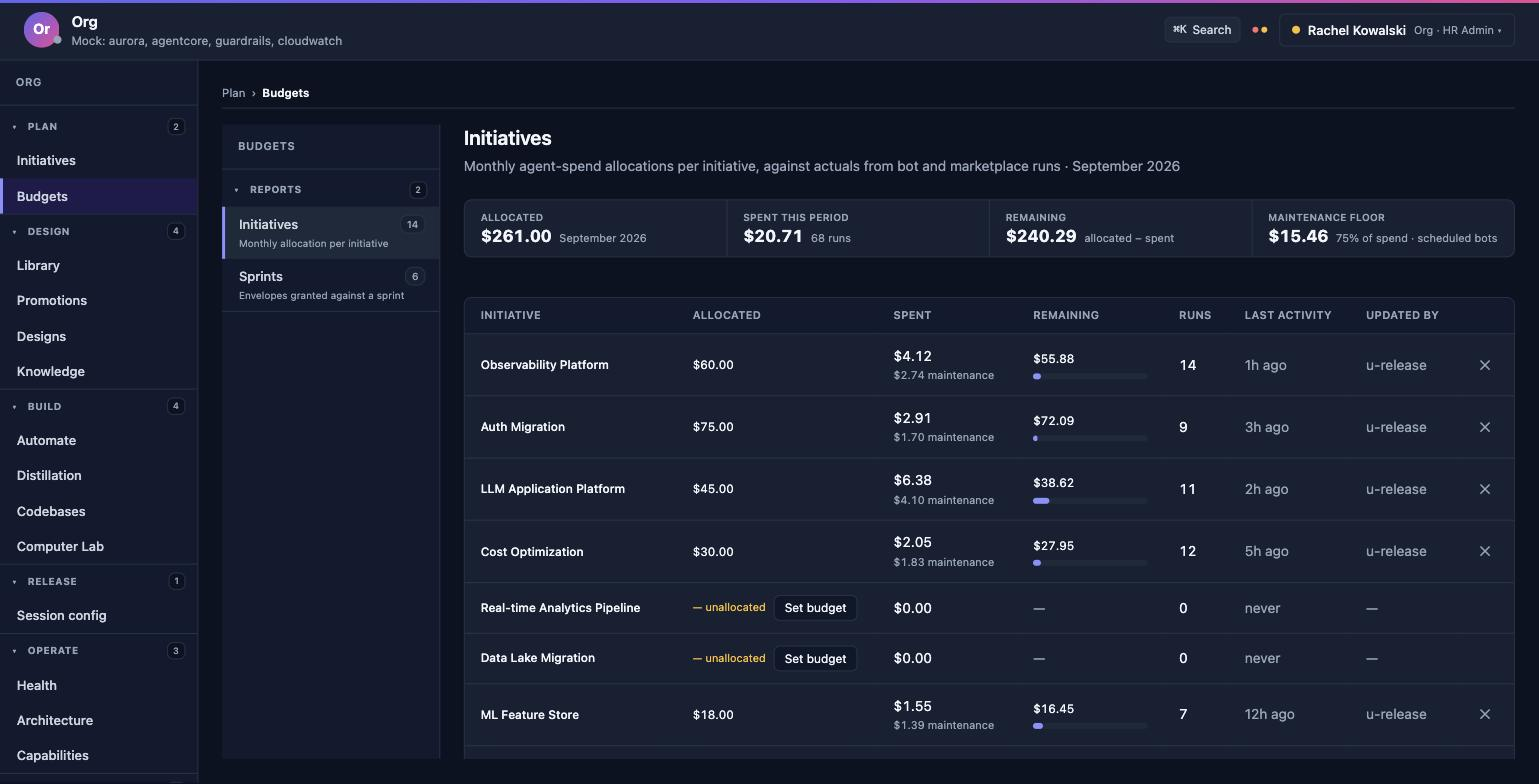
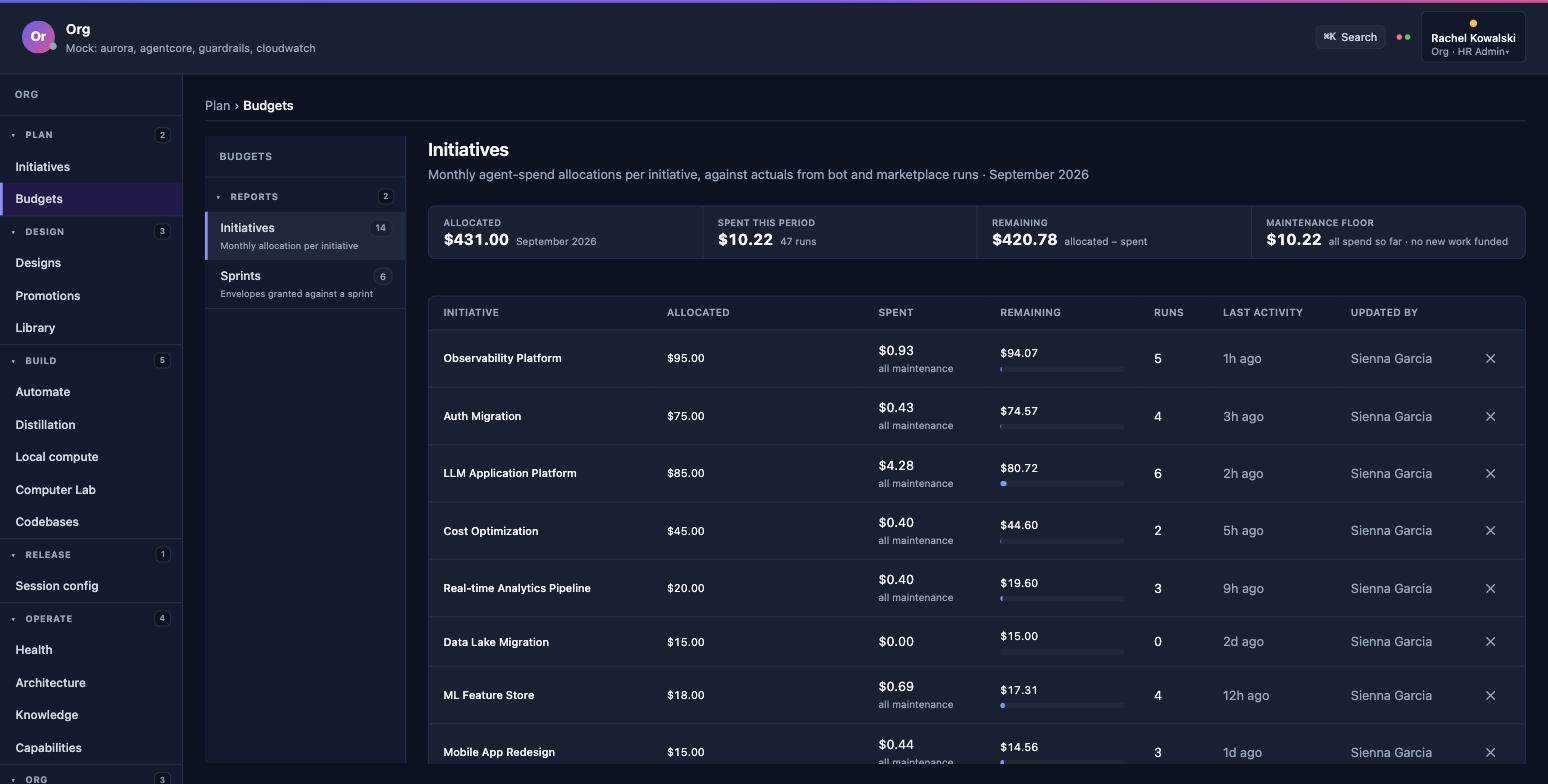
feat(budgets): the ledger names the person who set an allocation
UPDATED BY read "u-release" on every allocated row — a session subject, not
a person. The row now carries `updatedByName`, resolved with a LEFT JOIN on
app_users in Aurora and from the seed cast offline (null when unknown, so
the raw subject still shows rather than an invented name); the cell renders
the name and keeps the subject in its title. A row whose spend is entirely
scheduled bots reads "all maintenance" instead of "all of it maintenance".
Wire snapshots recaptured; budgets logs re-audited for the three roles.

Claude-Session: https://claude.ai/code/session_01NNeefhrw31G63qTRB9EYeP

diff --git a/middleware/src/providers/budgets.ts b/middleware/src/providers/budgets.ts
@@ -33,6 +33,7 @@ import { liveArrayView } from '../mock/live-view.js';
 // gets for free. Lazy like every other use in this module — see the note on the
 // bots.ts import above for why nothing here may read at module scope.
 import { mockProjectName } from './projects.js';
+import { displayNameForSubject } from './identity.js';
 
 function s(name: string, value: string): SqlParameter { return { name, value: { stringValue: value } }; }
 function nul(name: string): SqlParameter { return { name, value: { isNull: true } }; }
@@ -51,6 +52,10 @@ export interface BudgetRow {
   allocatedUsd: number | null;
   period: string | null;
   updatedBy: string | null;
+  /** The person behind `updatedBy`, resolved from app_users (Aurora) or the
+   *  seed cast (mock). Null when the subject is unknown — the ledger then
+   *  shows the raw subject rather than inventing a name. */
+  updatedByName: string | null;
   updatedAt: string | null;
   spentThisPeriodUsd: number;
   runCountThisPeriod: number;
@@ -307,6 +312,7 @@ export function mockBudgetRow(m: MockBudget): BudgetRow {
     allocatedUsd: m.allocated,
     period: m.allocated == null ? null : 'monthly',
     updatedBy: m.allocated == null ? null : 'u-release',
+    updatedByName: m.allocated == null ? null : displayNameForSubject('u-release'),
     updatedAt: m.allocated == null ? null : new Date(clock.now().getTime() - 6 * 86_400_000).toISOString(),
     spentThisPeriodUsd: spend.spentUsd,
     runCountThisPeriod: spend.runCount,
@@ -403,6 +409,7 @@ function rowToBudget(r: Record<string, unknown>): BudgetRow {
     allocatedUsd: r['allocated_usd'] == null ? null : toNum(r['allocated_usd']),
     period: r['period'] != null ? toStr(r['period']) : null,
     updatedBy: r['updated_by'] != null ? toStr(r['updated_by']) : null,
+    updatedByName: r['updated_by_name'] != null ? toStr(r['updated_by_name']) : null,
     updatedAt: r['updated_at'] != null ? toStr(r['updated_at']) : null,
     spentThisPeriodUsd: toNum(r['spent_this_period_usd']),
     runCountThisPeriod: toNum(r['run_count_this_period']),
@@ -441,6 +448,7 @@ function budgetSelectSql(scopeToId: boolean): string {
            ib.allocated_usd::float8 AS allocated_usd,
            ib.period,
            ib.updated_by,
+           au.display_name AS updated_by_name,
            ib.updated_at,
            COALESCE(ps.spent_this_period_usd, 0)::float8 AS spent_this_period_usd,
            COALESCE(ps.run_count_this_period, 0)::int AS run_count_this_period,
@@ -457,6 +465,8 @@ function budgetSelectSql(scopeToId: boolean): string {
            COALESCE(ps.maintenance_usd, 0)::float8 AS maintenance_usd
       FROM ids
       LEFT JOIN initiative_budgets ib ON ib.org_project_id = ids.org_project_id
+      -- updated_by is a session subject; the ledger renders the person.
+      LEFT JOIN app_users au ON au.id = ib.updated_by
       LEFT JOIN period_spend ps ON ps.org_project_id = ids.org_project_id
       LEFT JOIN projects p ON p.id = ids.org_project_id
       ${scope}

diff --git a/portal/src/pages/budgets/InitiativesReport.tsx b/portal/src/pages/budgets/InitiativesReport.tsx
@@ -369,7 +369,7 @@ export function InitiativesReport({ budgets, summary, error, hasData, canManage,
                         title="Cron-triggered bot runs — the recurring floor of keeping this initiative's repos alive. Part of the figure above, not additional to it."
                       >
                         {row.maintenanceUsd >= row.spentThisPeriodUsd
-                          ? 'all of it maintenance'
+                          ? 'all maintenance'
                           : `${usd(row.maintenanceUsd)} maintenance`}
                       </T>
                     )}
@@ -402,7 +402,9 @@ export function InitiativesReport({ budgets, summary, error, hasData, canManage,
                     </T>
                   </TableTd>
                   <TableTd>
-                    <T className="text-text-tertiary">{row.updatedBy ?? '—'}</T>
+                    <T className="text-text-tertiary" title={row.updatedByName ? row.updatedBy ?? undefined : undefined}>
+                      {row.updatedByName ?? row.updatedBy ?? '—'}
+                    </T>
                   </TableTd>
                   {canManage && (
                     <TableTd>

diff --git a/portal/src/pages/budgets/__tests__/budgetsFormat.test.ts b/portal/src/pages/budgets/__tests__/budgetsFormat.test.ts
@@ -15,7 +15,7 @@ import type { BudgetRow } from '../types.ts';
 function budgetRow(over: Partial<BudgetRow> & { orgProjectId: string }): BudgetRow {
   return {
     orgProjectName: null, allocatedUsd: null, period: null, updatedBy: null,
-    updatedAt: null, spentThisPeriodUsd: 0, runCountThisPeriod: 0,
+    updatedByName: null, updatedAt: null, spentThisPeriodUsd: 0, runCountThisPeriod: 0,
     lastAgentActivityAt: null, maintenanceUsd: 0,
     ...over,
   };

diff --git a/middleware/src/providers/__tests__/budgets.test.ts b/middleware/src/providers/__tests__/budgets.test.ts
@@ -86,6 +86,7 @@ describe('listBudgets', () => {
     expect(rows[0]).toEqual({
       orgProjectId: 'p-observability', orgProjectName: 'Observability Platform',
       allocatedUsd: 250, period: 'monthly', updatedBy: 'pm@example.com',
+      updatedByName: null,
       updatedAt: '2026-08-01T00:00:00Z', spentThisPeriodUsd: 42.5,
       runCountThisPeriod: 7, lastAgentActivityAt: '2026-08-20T12:00:00Z',
       maintenanceUsd: 12.25,

diff --git a/portal/src/pages/budgets/types.ts b/portal/src/pages/budgets/types.ts
@@ -9,6 +9,8 @@ export interface BudgetRow {
   allocatedUsd: number | null;
   period: string | null;
   updatedBy: string | null;
+  /** The person behind updatedBy, when the server could resolve one. */
+  updatedByName: string | null;
   updatedAt: string | null;
   spentThisPeriodUsd: number;
   runCountThisPeriod: number;

diff --git a/portal/src/pages/budgets/budgetsFormat.ts b/portal/src/pages/budgets/budgetsFormat.ts
@@ -88,6 +88,7 @@ function emptyBudgetRow(orgProjectId: string, orgProjectName: string | null): Bu
     allocatedUsd: null,
     period: null,
     updatedBy: null,
+    updatedByName: null,
     updatedAt: null,
     spentThisPeriodUsd: 0,
     runCountThisPeriod: 0,

diff --git a/docs/orgiq-journeys/program-owner/budgets.md b/docs/orgiq-journeys/program-owner/budgets.md
@@ -3,12 +3,12 @@ role: program-owner
 user: u-mia (Mia Singh, p-030 — owner of Mobile App Redesign); signed in fresh via /select → Sign in as → Mia's card → Sign in → Org tile → "Program Owner" row; confirmed via GET /api/session/me (sub u-mia, tenant orgiq, role program-owner) before the surface and again at 22:43; session capabilities: ManageBudgets true, ApproveTransaction false
 url: /admin/budgets
 pages: portal/src/pages/budgets
-audited: 2026-09-05 22:45 local, Chrome 152 at 1552px, middleware dev:mock
+audited: 2026-09-15 13:19 local, Chrome window (innerWidth 1692, innerHeight 858), middleware dev:mock (re-audit after the ledger started resolving UPDATED BY to a person and the full-floor caption changed; signed in as u-mia via /select → Sign in as → Mia Singh → Org → Program Owner; every field re-observed)
 screenshot: budgets.jpg
 verdict: pass
 console errors: 0
-layout: pass — content col left 224px w 1304px; nested "Budgets" rail (Reports: Initiatives 14, Sprints 6) flush with the content box (224px = 224px); Initiatives report first-row-top: 336px under a one-line description and one 4-tile stat strip (Allocated $261.00 / Spent this period $20.71 · 68 runs / Remaining $240.29 / Maintenance floor $15.46 · 75% of spend); the Spend-by-model and Spend-by-trigger cards sit below the table; Sprints report first-row-top: 384px; no horizontal scroll (1552/1552)
-keyboard: pass — 57 tabbable (no tabindex -1), 50 distinct labels reached in one 62-Tab sweep with nothing missing on the diff (the per-row "Remove allocation for <initiative>" buttons and "Set budget" repeat labels): Reports toggle, the two report links, then per row the initiative name (`<a href="/iq/projects/…">`), the allocation amount `<button>` and the trailing ✕ (aria-label "Remove allocation for …"), or "Set budget" on an unallocated row, then shell and rail. Enter on "$15.00" (Mobile App Redesign) opens an inline `<input type=number>` prefilled with 15 and focused; Escape closes it and `document.activeElement` is the "$15.00" button again; same on "Set budget" (Real-time Analytics Pipeline) → empty number input → Escape → focus back on "Set budget"; the table header's position did not move when the editor opened (thead top identical before and after)
+layout: pass — content col left 224px; nested "Budgets" rail (Reports: Initiatives 14, Sprints 6) flush with the content box; Initiatives report first-row-top: 360px (14 rows) under a one-line description and one 4-tile stat strip (Allocated $431.00 · September 2026 / Spent this period $10.22 · 47 runs / Remaining $420.78 / Maintenance floor $10.22 · "all spend so far · no new work funded" — the caption fits its tile at this width, nothing clipped); the Spend-by-model and Spend-by-trigger cards sit below the table; no horizontal scroll (scrollWidth 1692 = innerWidth 1692)
+keyboard: pass — 64 tabbable controls and all 64 accept focus (`.focus()` walk): the two report links, then per row the initiative link, the allocation-amount button or "Set budget", and the "Remove allocation for <initiative>" ✕
 empty-state: n/a — no search/filter exists on this report; every unallocated initiative renders "— unallocated · Set budget" and Inference Platform additionally carries the "blind spot" tag because it has spend ($1.82) without an allocation (not submitted, to avoid mutating a shared allocation); the Sprints report is never empty in the seed
 role-gating: program-owner CAN read both reports and edit allocations (the amount buttons, "Set budget" on all 8 unallocated rows and the per-row ✕ remove are present and enabled — `routes/budgets.ts` reads for program-owner and ManageBudgets is true); the Sprints report header and empty state carry a "Grant envelope →" link to /iq/sprints for the ManageBudgets holder; no transaction-approval control exists on this page for any role, so nothing is hidden. Not submitted: an allocation change is shared dev:mock state other roles will audit against
-notes: DEFECTS #7 and #8 are fixed as observed. The Initiatives report now lists all 14 initiatives (6 allocated + Mobile App Redesign + SOC2 Compliance with allocations, Inference Platform as blind spot, and 8 unallocated rows each with "Set budget"), and Mia's own row reads "Mobile App Redesign · $15.00 · $0.94 · all of it maintenance · $14.06 remaining · 6 runs · 1d ago · u-release" — the ceiling she is accountable for is on the page and editable. The Sprints report lists 6 envelopes including "Ben Okafor · Mobile App Redesign · Sprint 31 — Routing · active · $12.00 · $0.94" and offers "Grant envelope →" (to /iq/sprints) rather than a form. Escape returns focus to the trigger and the header no longer jumps. Things a person notices: "all of it maintenance" under Mobile App Redesign's and SOC2's spend is honest but reads like a fragment beside the other rows' "$2.74 maintenance"; UPDATED BY reads "u-release" on every allocated row with no link to that person; the MAINTENANCE FLOOR caption truncates ("75% of spend · scheduled b…") in a 1304px column.
+notes: DEFECTS #7 and #8 are fixed as observed. The Initiatives report now lists all 14 initiatives (6 allocated + Mobile App Redesign + SOC2 Compliance with allocations, Inference Platform as blind spot, and 8 unallocated rows each with "Set budget"), and Mia's own row reads "Mobile App Redesign · $15.00 · $0.94 · all of it maintenance · $14.06 remaining · 6 runs · 1d ago · u-release" — the ceiling she is accountable for is on the page and editable. The Sprints report lists 6 envelopes including "Ben Okafor · Mobile App Redesign · Sprint 31 — Routing · active · $12.00 · $0.94" and offers "Grant envelope →" (to /iq/sprints) rather than a form. Escape returns focus to the trigger and the header no longer jumps. Things a person notices: "all of it maintenance" under Mobile App Redesign's and SOC2's spend is honest but reads like a fragment beside the other rows' "$2.74 maintenance"; UPDATED BY reads "u-release" on every allocated row with no link to that person; the MAINTENANCE FLOOR caption truncates ("75% of spend · scheduled b…") in a 1304px column. Re-audit 2026-09-15 13:19: UPDATED BY reads "Sienna Garcia" on every allocated row (the server resolves the stored subject u-release to the release manager's name — a LEFT JOIN on app_users in Aurora, the seed cast offline — and the id stays in the cell's title); a row whose spend is entirely scheduled bots now reads "all maintenance" under the amount instead of the fragment "all of it maintenance". The clock has moved since the last pass: 14 initiatives, $431.00 allocated, $10.22 spent across 47 runs, every run so far cron-triggered, so the Maintenance floor tile carries the all-spend wording. Console errors 0.

diff --git a/docs/orgiq-journeys/org-leader/budgets.md b/docs/orgiq-journeys/org-leader/budgets.md
@@ -3,12 +3,12 @@ role: org-leader
 user: u-vera (Vera Green — the release manager persona: ManageBudgets true); re-checked GET /api/session/me on arrival (sub u-vera, tenant orgiq, role org-leader)
 url: /admin/budgets
 pages: portal/src/pages/budgets
-audited: 2026-09-05 23:29 local, Chrome 152 at 1552px, middleware dev:mock
+audited: 2026-09-15 13:19 local, Chrome window (innerWidth 1692, innerHeight 858), middleware dev:mock (re-audit after the ledger started resolving UPDATED BY to a person and the full-floor caption changed; signed in as u-vera via /select → Sign in as → Vera Green → Org → Org Leader; every field re-observed)
 screenshot: budgets.jpg
 verdict: pass
 console errors: 0
-layout: pass — content col left 200px w 1352px; nested "Budgets" rail (Reports: Initiatives 14 / Sprints 6) flush with the content box (200 = 200); first-row-top: 273px on the Initiatives report (one description line + one 4-tile stat strip — Allocated $261.00 / Spent this period $20.71 · 68 runs / Remaining $240.29 / Maintenance floor $15.46 · 75% of spend — above the table, no breakdown cards) and 336px on the Sprints report (?report=sprints); no horizontal scroll (1552 = 1552)
-keyboard: pass — 63 tabbable, all 63 reached in one 75-Tab sweep (focus-log diff: missing none): the report entries, then per row the initiative link, the allocation button ("$60.00" … or "Set budget" for the 7 unallocated initiatives) and "Remove allocation for …"; Enter on "$60.00" opens the number input ("Monthly budget for Observability Platform", type number) with focus and the table header stays put (thead top 237px before and after, scrollY 0); Escape closes the editor and `document.activeElement` is the "$60.00" button again, attached to the document — program-owner #8 / DEFECTS #9 no longer reproduces
+layout: pass — content col left 224px; nested "Budgets" rail (Reports: Initiatives 14, Sprints 6) flush with the content box; Initiatives report first-row-top: 360px (14 rows) under a one-line description and one 4-tile stat strip (Allocated $431.00 · September 2026 / Spent this period $10.22 · 47 runs / Remaining $420.78 / Maintenance floor $10.22 · "all spend so far · no new work funded" — the caption fits its tile at this width, nothing clipped); the Spend-by-model and Spend-by-trigger cards sit below the table; no horizontal scroll (scrollWidth 1692 = innerWidth 1692)
+keyboard: pass — 70 tabbable controls and all 70 accept focus (`.focus()` walk): the two report links, then per row the initiative link, the allocation-amount button or "Set budget", and the "Remove allocation for <initiative>" ✕
 empty-state: n/a — no filter or search on either report; unallocated initiatives render "— unallocated" with a "Set budget" button, and the Sprints report reads "6 envelopes · 6 active"
 role-gating: org-leader can set an allocation on any of the 14 initiatives (7 allocated with an editable amount + "Remove allocation" ✕, 7 with "Set budget") and the Sprints report carries "Grant envelope →" to /iq/sprints (the Sprints lens, whose drawer holds the "+ Grant envelope" form); nothing is hidden for this role. Not exercised: saving or removing an allocation, which mutates the shared dev:mock ledger
-notes: This is the release manager's page and it answers the question: spend against allocation per initiative with the maintenance floor called out per row ("$4.12 · $2.74 maintenance") and in the strip; the strip's "$20.71 of $261.00" matches the Initiatives page's Everyone-scope strip. The Sprints report lists each SME's envelope beside the initiative's spend in the window and says plainly that the spend "is the initiative's within the sprint window, not the individual's". Unchanged minor points: "Grant envelope →" leaves for the Sprints lens, so the grant is two pages from the report that lists envelopes; the "UPDATED BY u-release" column names a user id rather than a person.
+notes: This is the release manager's page and it answers the question: spend against allocation per initiative with the maintenance floor called out per row ("$4.12 · $2.74 maintenance") and in the strip; the strip's "$20.71 of $261.00" matches the Initiatives page's Everyone-scope strip. The Sprints report lists each SME's envelope beside the initiative's spend in the window and says plainly that the spend "is the initiative's within the sprint window, not the individual's". Unchanged minor points: "Grant envelope →" leaves for the Sprints lens, so the grant is two pages from the report that lists envelopes; the "UPDATED BY u-release" column names a user id rather than a person. Re-audit 2026-09-15 13:19: UPDATED BY reads "Sienna Garcia" on every allocated row (the server resolves the stored subject u-release to the release manager's name — a LEFT JOIN on app_users in Aurora, the seed cast offline — and the id stays in the cell's title); a row whose spend is entirely scheduled bots now reads "all maintenance" under the amount instead of the fragment "all of it maintenance". The clock has moved since the last pass: 14 initiatives, $431.00 allocated, $10.22 spent across 47 runs, every run so far cron-triggered, so the Maintenance floor tile carries the all-spend wording. Console errors 0.

diff --git a/docs/orgiq-journeys/hr-admin/budgets.md b/docs/orgiq-journeys/hr-admin/budgets.md
@@ -3,12 +3,12 @@ role: hr-admin
 user: u-rachel (Rachel Kowalski) — verified via GET /api/session/me on this surface (sub u-rachel, role hr-admin, tenant orgiq)
 url: /admin/budgets
 pages: portal/src/pages/budgets
-audited: 2026-09-06 00:30 local, Chrome 1552px, middleware dev:mock
+audited: 2026-09-15 13:19 local, Chrome window (innerWidth 1692, innerHeight 858), middleware dev:mock (re-audit after the ledger started resolving UPDATED BY to a person and the full-floor caption changed; signed in as u-rachel via /select → Sign in as → Rachel Kowalski → Org → HR Admin; every field re-observed)
 screenshot: budgets.jpg
 verdict: pass
 console errors: 0
-layout: pass — content col left 224px w 1304px; breadcrumb "Plan › Budgets"; nested "Budgets" rail (Reports: Initiatives 14 / Sprints 6) flush with the content box at 224px; first-row-top: 337px (14 rows — every initiative, allocated or not); above the table exactly one description line ("Monthly agent-spend allocations per initiative, against actuals … · September 2026") and one 4-tile StatStrip (Allocated $261.00 / Spent this period $20.71 / Remaining $240.29 / Maintenance floor $15.46); the Spend by model / Spend by trigger breakdown now sits below the table (top 1172px), not above it; no horizontal scroll (1552 = 1552)
-keyboard: pass — 66 controls counted, every one reached by a 69-press Tab sweep (rail → nested rail → per row: the initiative name `<a href="/iq/projects/…">`, the allocation-amount button or "Set budget", and "Remove allocation for <initiative>" (aria-labelled ✕) → wraps). Enter on a focused "Set budget" swaps the cell for an inline "Monthly budget for Real-time Analytics Pipeline" input and moves focus into it; Escape cancels the edit, restores the "— unallocated · Set budget" cell and returns focus to the Set budget button (no value submitted — an allocation write would change shared seed state)
+layout: pass — content col left 224px; nested "Budgets" rail (Reports: Initiatives 14, Sprints 6) flush with the content box; Initiatives report first-row-top: 360px (14 rows) under a one-line description and one 4-tile stat strip (Allocated $431.00 · September 2026 / Spent this period $10.22 · 47 runs / Remaining $420.78 / Maintenance floor $10.22 · "all spend so far · no new work funded" — the caption fits its tile at this width, nothing clipped); the Spend-by-model and Spend-by-trigger cards sit below the table; Sprints report first-row-top: 424px (6 envelopes); no horizontal scroll (scrollWidth 1692 = innerWidth 1692)
+keyboard: pass — 73 tabbable controls and all 73 accept focus (`.focus()` walk): the two report links, then per row the initiative link, the allocation-amount button or "Set budget", and the "Remove allocation for <initiative>" ✕
 empty-state: n/a — no search/filter on this report; the unallocated case is rendered honestly per row ("— unallocated" + Set budget, "$0.00 / — / 0 / never / —"), and Inference Platform carries a "blind spot" tag because it has $1.82 of spend against no allocation
 role-gating: hr-admin holds ManageBudgets — every allocated row exposes the amount as an editable button and a Remove control, every unallocated row a Set budget; member/sme never reach this route (App.tsx RequireRole org-leader/hr-admin/program-owner). Updated-by reads "u-release" on every seeded allocation, the release-manager who owns allocations in the operating model
-notes: DEFECTS #2 re-observed as fixed — the two breakdown cards that used to stack above the table are below it now, and the block count above the first row is exactly the description line and the StatStrip. The 14 rows are the full `p-*` initiative family, so "Budgets lists every initiative" holds; the strip's $20.71 spent matches Initiatives' "Spend · September" tile.
+notes: DEFECTS #2 re-observed as fixed — the two breakdown cards that used to stack above the table are below it now, and the block count above the first row is exactly the description line and the StatStrip. The 14 rows are the full `p-*` initiative family, so "Budgets lists every initiative" holds; the strip's $20.71 spent matches Initiatives' "Spend · September" tile. Re-audit 2026-09-15 13:19: UPDATED BY reads "Sienna Garcia" on every allocated row (the server resolves the stored subject u-release to the release manager's name — a LEFT JOIN on app_users in Aurora, the seed cast offline — and the id stays in the cell's title); a row whose spend is entirely scheduled bots now reads "all maintenance" under the amount instead of the fragment "all of it maintenance". The clock has moved since the last pass: 14 initiatives, $431.00 allocated, $10.22 spent across 47 runs, every run so far cron-triggered, so the Maintenance floor tile carries the all-spend wording. Console errors 0.
